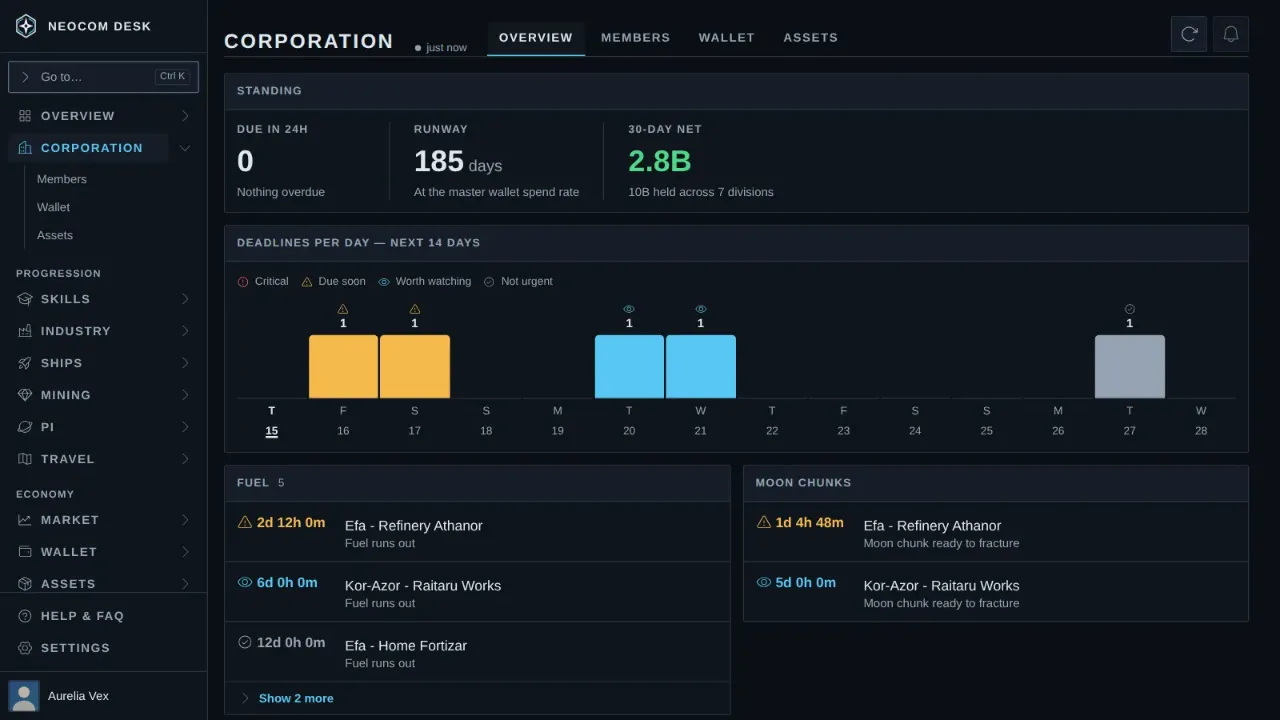
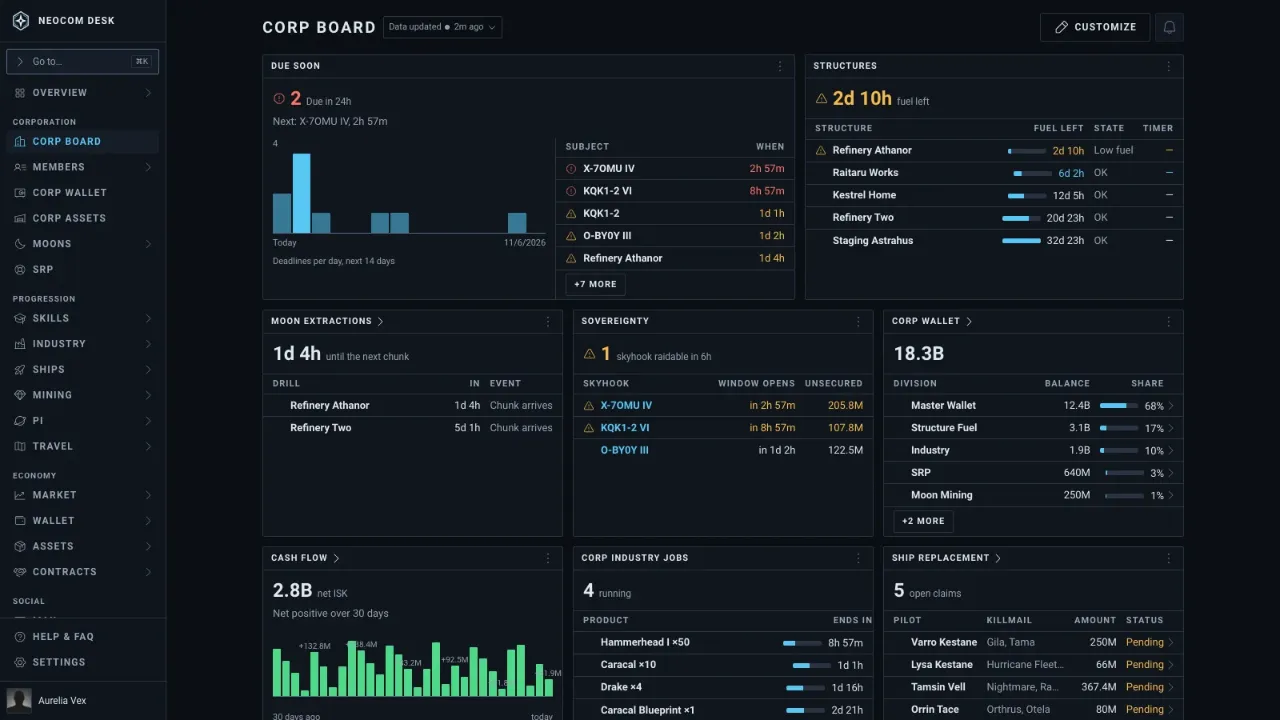
feat(landing): retake stale screenshots, add courier and assets questions
- Retake order detail, fitting, phone market within 15 jumps, Skills and
  Corp Board captures against the current app (sample data, no empty states)
- New question tiles: "Which haul pays best per jump?" (Contracts > Courier)
  and "Where did I leave that ship?" (Assets > Ships), each with a capture
- Corporation tab describes the rail group: widget Corp Board, separate
  corp pages, Corp Tax Book, SRP; catalog adds Corp Tax Book, SRP, Communities
- FAQ discloses that SRP Claims and the Corp Tax Book are kept on our server
  and stay with the corporation after Delete all data

Claude-Session: https://claude.ai/code/session_01N1v2oaeNaofNJjCrPR8zVq

diff --git a/src/routes/Login.test.tsx b/src/routes/Login.test.tsx
@@ -172,8 +172,8 @@ describe('Login', () => {
     const images = grid.getAllByRole('img');
     // One capture per tile, and one tile per heading.
     expect(images).toHaveLength(grid.getAllByRole('heading', { level: 3 }).length);
-    expect(images).toHaveLength(9);
-    expect(new Set(images.map((image) => image.getAttribute('src'))).size).toBe(9);
+    expect(images).toHaveLength(11);
+    expect(new Set(images.map((image) => image.getAttribute('src'))).size).toBe(11);
     for (const image of images) {
       expect(image.getAttribute('alt')).toBeTruthy();
       expect(image).toHaveAttribute('loading', 'lazy');
@@ -220,8 +220,8 @@ describe('Login', () => {
       'Market & orders': ['Market', 'Open Orders', 'Wallet', 'Assets'],
       Skills: ['Ships', 'Clones', 'Travel'],
       'Planetary & mining': ['Planetary Industry', 'Mining'],
-      Corporation: [],
-      Mail: ['Mail & Calendar', 'Contracts', 'Contacts & Standings'],
+      Corporation: ['Corp Tax Book', 'SRP'],
+      Mail: ['Mail & Calendar', 'Contracts', 'Contacts & Standings', 'Communities'],
       Alerts: ['Notifications'],
     };
     const seen: string[] = [];
@@ -238,8 +238,8 @@ describe('Login', () => {
       expect(panel.queryByRole('listitem', { name: tab })).toBeNull();
       seen.push(tab);
     }
-    // 13 chips; the other 4 catalog rows (Industry, Corporation, Alerts, Skills) are named by their tab.
-    expect(seen.filter((name) => !(name in covered))).toHaveLength(13);
+    // 16 chips; the other 4 catalog rows (Industry, Corporation, Alerts, Skills) are named by their tab.
+    expect(seen.filter((name) => !(name in covered))).toHaveLength(16);
     for (const row of ['Industry', 'Corporation', 'Alerts', 'Skills']) expect(seen).toContain(row);
   });
 

diff --git a/src/features/landing/showcaseTabs.ts b/src/features/landing/showcaseTabs.ts
@@ -8,6 +8,9 @@ import {
   MailInbox,
   Market,
   MoonMining,
+  NavCommunities,
+  NavCorpMoons,
+  NavCorpSrp,
   NavTravel,
   Notifications,
   Orders,
@@ -84,8 +87,12 @@ export const SHOWCASE_TABS: ShowcaseTab[] = [
   {
     id: 'corp',
     shot: desktop('desktop-corporation', 'corporation'),
-    bullets: ['board', 'deadlines', 'tables', 'access'],
-    features: [{ icon: Corporation, key: 'corp' }],
+    bullets: ['board', 'pages', 'moons', 'access'],
+    features: [
+      { icon: Corporation, key: 'corp' },
+      { icon: NavCorpMoons, key: 'corpTaxBook' },
+      { icon: NavCorpSrp, key: 'srp' },
+    ],
   },
   {
     id: 'comms',
@@ -95,6 +102,7 @@ export const SHOWCASE_TABS: ShowcaseTab[] = [
       { icon: MailInbox, key: 'social' },
       { icon: Contracts, key: 'contracts' },
       { icon: Social, key: 'contacts' },
+      { icon: NavCommunities, key: 'communities' },
     ],
   },
   {

diff --git a/src/features/landing/FeatureShowcase.test.tsx b/src/features/landing/FeatureShowcase.test.tsx
@@ -26,7 +26,7 @@ describe('FeatureShowcase', () => {
       'src',
       '/screenshots/desktop-corporation.webp'
     );
-    expect(panel.getByText(/merges fuel, structure timers/i)).toBeInTheDocument();
+    expect(panel.getByText(/a board of widgets you pick and size/i)).toBeInTheDocument();
     expect(panel.queryByRole('img', { name: /running and finished jobs/i })).toBeNull();
     expect(panel.queryByText(/costs materials, job cost and taxes/i)).toBeNull();
   });

diff --git a/src/features/landing/questionTiles.ts b/src/features/landing/questionTiles.ts
@@ -47,6 +47,16 @@ export const QUESTION_TILES: Tile[] = [
     span: 'md:col-span-2 lg:col-span-4',
     wide: true,
   },
+  {
+    key: 'courier',
+    shot: { file: 'desktop-courier', key: 'courier', size: DESKTOP_SIZE },
+    span: 'lg:col-span-3',
+  },
+  {
+    key: 'assets',
+    shot: { file: 'desktop-assets', key: 'assets', size: DESKTOP_SIZE },
+    span: 'lg:col-span-3',
+  },
 ];
 
 /** The phone band: three tall captures, staggered beside their questions. */

diff --git a/docs/features/auth-login.md b/docs/features/auth-login.md
@@ -41,7 +41,7 @@ Sign in with EVE SSO (first Character, or add an alt), choose how much to grant,
 
 - Shown only with zero Characters: any Character -> `Navigate('/characters')` (`Login.tsx:Login()`); count loading -> `BootScreen gate="login"`.
 - Play Store (TWA) variant (`isPlayStoreApp`, referrer-based, read once): logo, name, login, customize link only.
-- Marketing sections (`login.*`): header (logo and name only); centred funnel hero (eyebrow, heading "Answers, not API dumps.", tagline, EVE login button, customize link, then `features/landing/OverviewDemo.tsx`: a wide, responsive mock of the Overview (header, tabs, Mining tax / Training / Contracts / Location and ship, Coming up table, Wallet area chart, Planetary bars, Mail, Wallet flow, Open orders table) with sample "Aurelia Vex" data and `overview.widgets.*` keys; the alerts bell opens a Popover of sample alerts (`login.demo.alerts.*`); no links; a grid of 9 question tiles (`TILES`: question, sample-data capture from `/screenshots/*.webp`, with `srcset` variants `<file>-<width>.webp` made by `npm run shots:resize`, one line of answer; the capture opens in `Modal placement="media"`, lazy with fixed size); feature catalog as name chips (Command, Progression, Economy, Social); trust cards ("Six writes, and nothing else", refresh token stays on device, offline, open source) with `login.permissionsHint` (read scopes) and a privacy-policy link; the six writes are listed in the first trust card; closing CTA; footer (GitHub, `/privacy.html`, `/data-credit.html`, Discord).
+- Marketing sections (`login.*`): header (logo and name only); centred funnel hero (eyebrow, heading "Answers, not API dumps.", tagline, EVE login button, customize link, then `features/landing/OverviewDemo.tsx`: a wide, responsive mock of the Overview (header, tabs, Mining tax / Training / Contracts / Location and ship, Coming up table, Wallet area chart, Planetary bars, Mail, Wallet flow, Open orders table) with sample "Aurelia Vex" data and `overview.widgets.*` keys; the alerts bell opens a Popover of sample alerts (`login.demo.alerts.*`); no links; a grid of 11 question tiles (`QUESTION_TILES` + `PHONE_TILES`: question, sample-data capture from `/screenshots/*.webp`, with `srcset` variants `<file>-<width>.webp` made by `npm run shots:resize`, one line of answer; the capture opens in `Modal placement="media"`, lazy with fixed size); feature catalog as name chips (Command, Progression, Economy, Social); trust cards ("Six writes, and nothing else", refresh token stays on device, offline, open source) with `login.permissionsHint` (read scopes) and a privacy-policy link; the six writes are listed in the first trust card; closing CTA; footer (GitHub, `/privacy.html`, `/data-credit.html`, Discord).
 - Login click -> `beginAddCharacterLogin()` (Base Grant), `pending` spinner/disabled; error resets.
 
 ## Scopes and Permissions

diff --git a/docs/context/decisions/20261024-004849-login-page-courier-and-assets-questions-corp-tab.md b/docs/context/decisions/20261024-004849-login-page-courier-and-assets-questions-corp-tab.md
@@ -1,0 +1,32 @@
+# Scope decisions — Login page: courier and assets questions, corp tab rewritten, corp records disclosed
+
+_Recorded 2026-10-24._
+
+- **Two new question tiles, both player questions with their own page.**
+  "Which haul pays best per jump?" points at Contracts › Courier, which ranks
+  public courier contracts on **ISK/jump** and flags pay far over the **Going
+  Rate**. Not Market › Hauling: that tab ranks trade runs, not jumps. "Where did
+  I leave that ship?" points at Assets. Rejected: Skyhook raids (an Overview
+  widget, and the Overview is already on the page) and SRP (an officer's view
+  more than a pilot's). Neither Contracts nor Assets had a capture before.
+
+- **Five captures retaken against the current app:** Open Orders' order
+  detail, a fitting, the phone market within 15 jumps, Skills (with a Skill
+  Plan, not the empty state) and the Corp Board (now a **Widget board**; the
+  old capture showed the retired Standing card and Deadline Strip).
+
+- **The Corporation tab describes the rail group, not the old fixed board.**
+  Corp Board widgets, the separate Corp Members / Wallet / Assets pages, Moons'
+  **Corp Tax Book** and **SRP**. Catalog rows added: Corp Tax Book and SRP under
+  Corporation, Communities under Mail. The old "appears only with a Corp Role"
+  line was untrue once a pilot with no role could file an **SRP Claim**.
+
+- **The FAQ now says corp records live on our server.** "What it reads from
+  EVE stays on this device" listed every exception except **SRP Claims** and
+  the **Corp Tax Book** (ADR 0023, ADR 0026), and Delete all data does not
+  remove either: they belong to the corporation. Both FAQ answers say so.
+  `public/privacy.html` has the same gap; it is a separate change because it
+  needs retention terms stated exactly.
+
+- **"Six writes" is still right.** The trust card groups the mail-type writes
+  (reply, Community invite, SRP result) as one, so the count holds.
